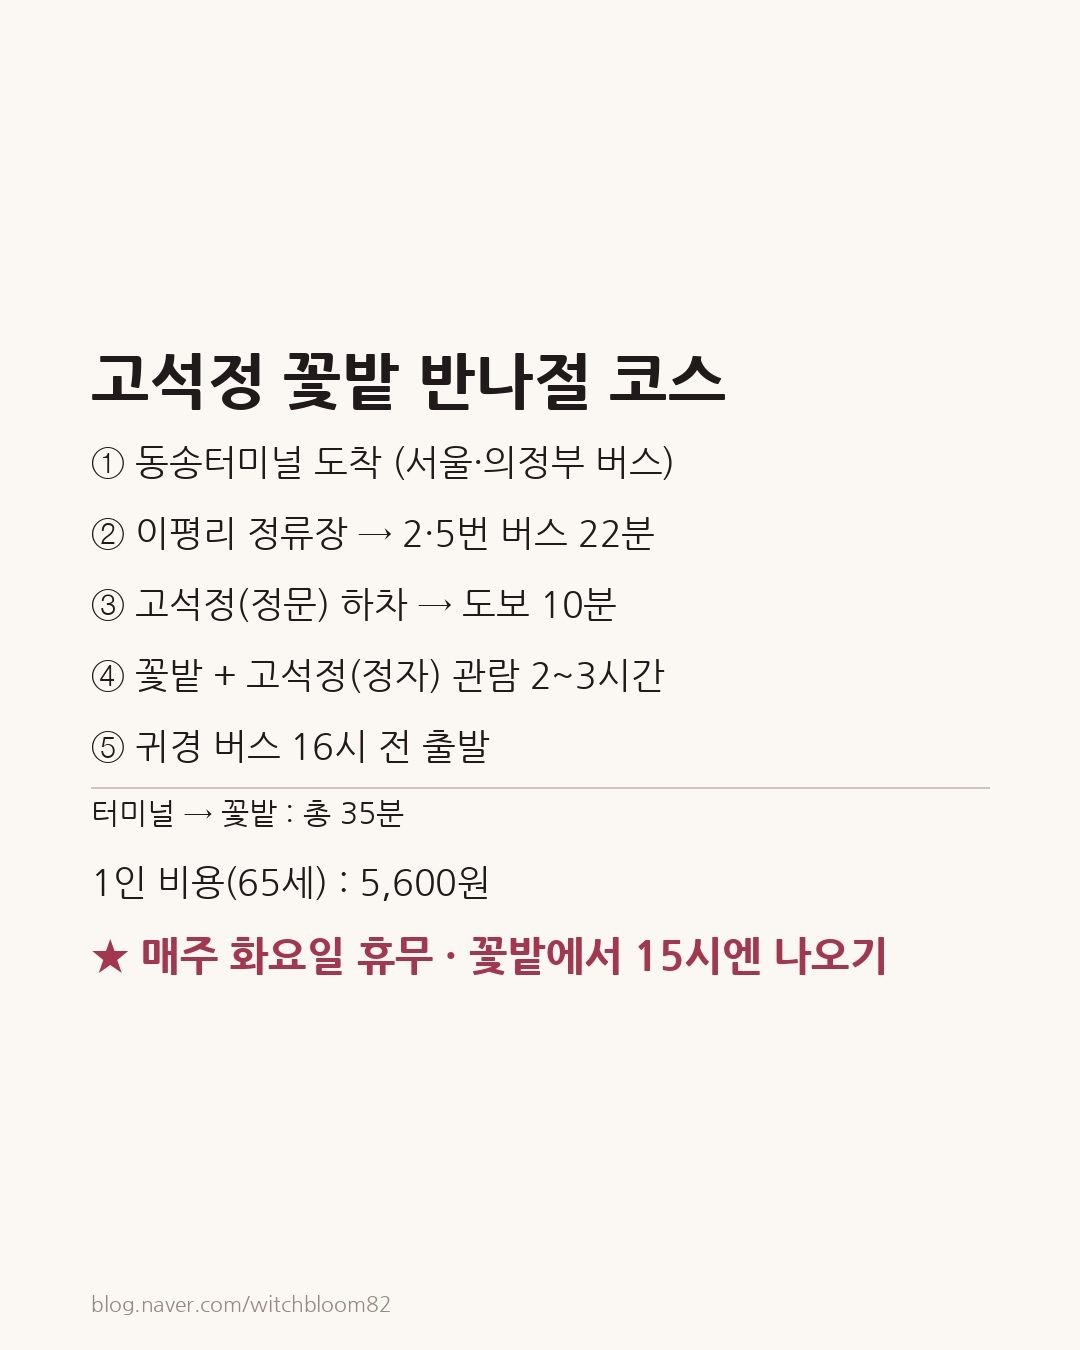
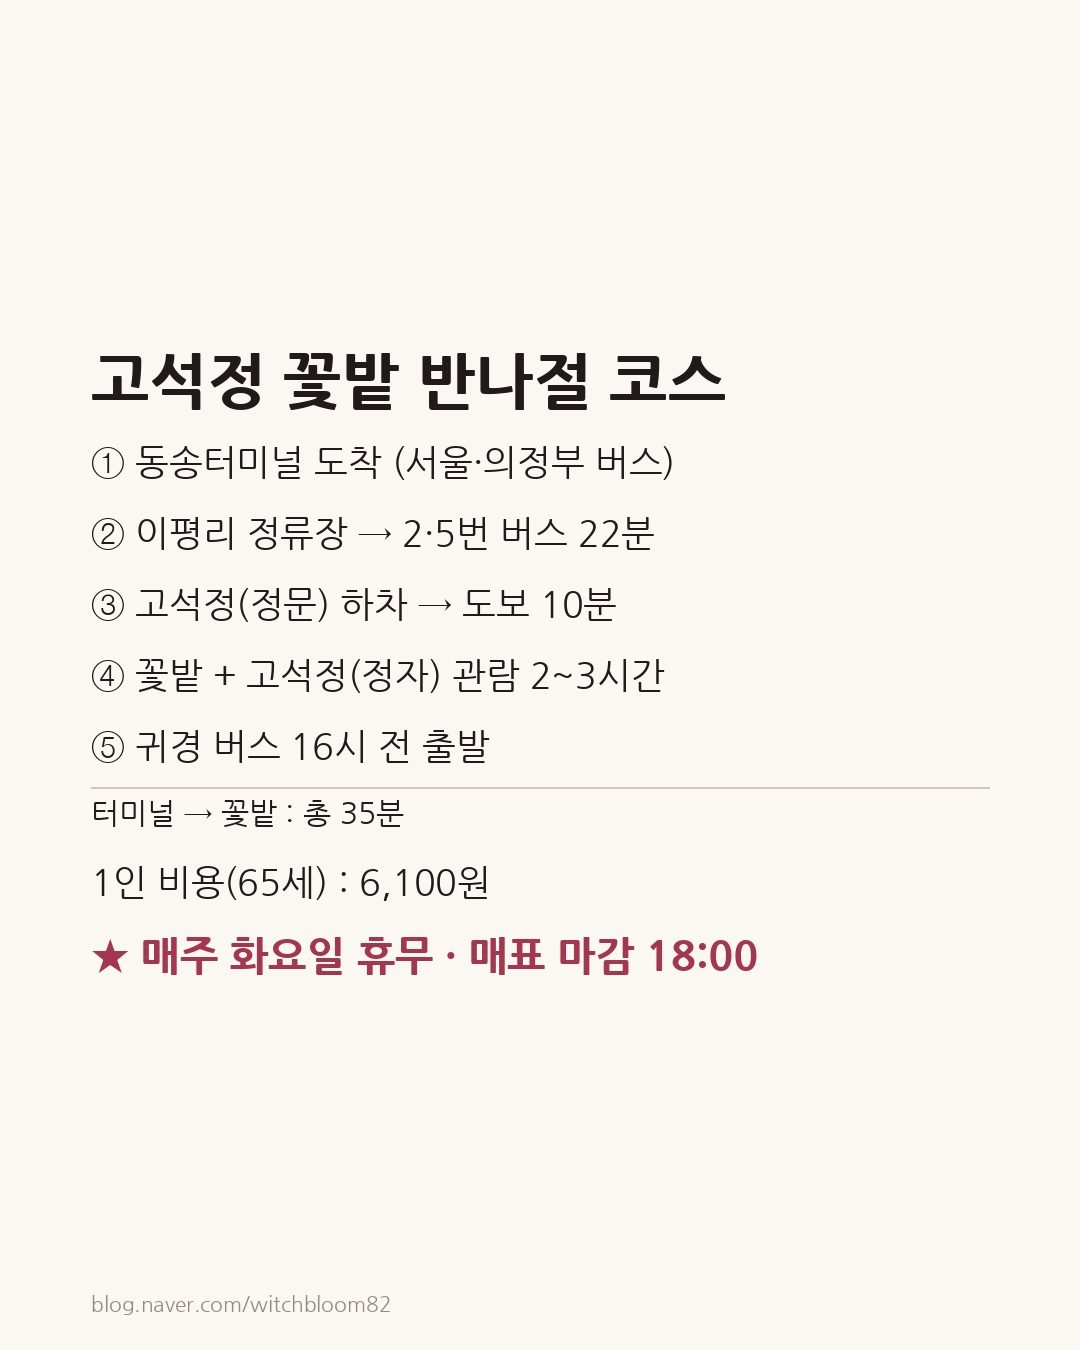
철원 요금·운영시간 공식 페이지로 정정 — 감면 환급률이 절반이 아니었다
운영자가 철원군 공식 페이지(cwg.go.kr key=1823)를 열어 확인해준 값이다.

  운영시간   09:00~18:00           → 09:00~19:00 · 매표 마감 18:00
  야간개장   금·토 21:00까지        → 근거 없음, 삭제
  요금 구분  성인/청소년/어린이      → 대인(19세~)/소인(7~18세)/감면
  청소년6,000·어린이4,000          → 소인 4,000 하나뿐
  65세 환급  2,500원(50%)          → 2,000원 → 실부담 3,000원
  총비용     5,600원               → 6,100원

가장 큰 건 감면 환급률이다. "입장료의 50%를 돌려받는다"고 썼는데
그건 대인만이고, 65세 감면은 5,000원 중 2,000원이다. 이 글 독자
대부분이 감면 대상이라 정작 틀린 쪽을 크게 써 놓은 셈이었다.

★공식 페이지 안에서 시간이 두 가지로 나온다는 것도 확인했다.
상세정보 09:00~19:00(매표 18:00) vs 리플릿 09:00~20:00(매표 19:00).
둘 다 적고 "18시 전에 사면 안전"으로 안내했다. 지자체도 정리 못 한
값을 짚어주는 게 이 블로그의 자리다.

공식 연락처(033-452-1941 / 450-5771, 깡통열차 010-6214-7523),
식재 수종의 호박터널·안젤로니아, 폐장일이 낙화 시점에 따라 앞당겨질
수 있다는 것도 반영했다.

Claude-Session: https://claude.ai/code/session_018cXnRr9rN6XXTQHvd3n7uT

Changed region(s): [[0.4278, 0.6844, 0.825, 0.7467]]

diff --git a/.claude/posts/2026-09-07-철원가볼만한곳/area1.md b/.claude/posts/2026-09-07-철원가볼만한곳/area1.md
@@ -2,7 +2,7 @@
 
 1. 철원 가볼만한곳, 고석정 꽃밭 65세 5,000원 반나절 (31자) — 노리는 검색어: 철원 가볼만한곳 / 65세 할인
 2. 철원 가볼만한곳, 고석정 꽃밭 화요일엔 못 들어가요 (28자) — 노리는 검색어: 철원 가볼만한곳 / 화요일 휴무
-3. 철원 가볼만한곳, 동송터미널서 35분 고석정 꽃밭 (26자) — 노리는 검색어: 철원 가볼만한곳 / 동송터미널 가는법
+3. 철원 가볼만한곳, 고석정 꽃밭 매표 18시 마감 (25자) — 노리는 검색어: 철원 가볼만한곳 / 동송터미널 가는법
 
 ---
 
@@ -32,9 +32,9 @@
 📌 3초 요약
 ✅ 가능여부 : 버스로 완전히 가능해요 (기차는 아직 이용 불가)
 ✅ 핵심교통 : 동송터미널 → 이평리 정류장 도보 1분 → 2·5·2-1번 버스 22~27분 → 고석정(정문) 하차 후 도보 10분 (총 35~41분)
-✅ 입장료 : 성인 10,000원 · 65세 이상 5,000원 (둘 다 절반은 철원사랑상품권으로 돌려받아요)
+✅ 입장료 : 대인 10,000원 · 65세 이상 5,000원 (상품권으로 각각 5,000원·2,000원 돌려받아요)
 ★ 조심할 점 : 매주 화요일 휴무 (꽃밭 + 맛집 2곳 모두)
-✅ 하루 총 비용(65세 기준) : 왕복 지역버스 3,100원 + 입장료 실부담 2,500원 ≈ 5,600원 (동송까지 오가는 장거리 버스비는 별도예요)
+✅ 하루 총 비용(65세 기준) : 왕복 지역버스 3,100원 + 입장료 실부담 3,000원 ≈ 6,100원 (동송까지 오가는 장거리 버스비는 별도예요)
 ✅ 실시간/플랜B : 네이버지도로 버스 실시간 위치 보기, 놓치면 택시(12분·약 13,200원)로 탈출
 [/박스]
 
@@ -60,17 +60,20 @@
 
 고석정 꽃밭은 2026년 8월 28일부터 10월 31일까지 문을 열어요. 다만 [굵게]매주 화요일은 통째로 휴무[/굵게]예요.
 
-✅ 운영기간 : 2026년 8월 28일 ~ 10월 31일 (가을 시즌)
+✅ 운영기간 : 2026년 8월 28일 ~ 10월 31일 (하반기 시즌)
 ✅ 휴무일 : 매주 화요일
-✅ 운영시간 : 09:00 ~ 18:00
-✅ 야간개장 : 금·토요일과 추석 연휴는 21:00까지, 이땐 매표를 20:00에 마감해요
+✅ 운영시간 : 09:00 ~ 19:00
+✅ [굵게]매표 마감 : 18:00[/굵게]
 
-평일 매표가 정확히 몇 시에 끝나는지는 아직 공식 자료가 없어요. 그래서 이 글은 늦어도 16시 전에는 들어가는 것을 기준으로 삼았어요.
+★[색변경]여기서 꼭 짚을 게 있어요. 철원군 공식 페이지 안에서도 시간이 두 가지로 나와요.[/색변경]
+　상세정보에는 [굵게]09:00~19:00 · 매표 마감 18:00[/굵게], 공식 안내문(리플릿)에는 09:00~20:00 · 매표 마감 19:00으로 적혀 있어요.
+　어느 쪽이든 [굵게]18시 전에 표를 사면 안전[/굵게]하니, 그 기준으로 움직이면 돼요.
 
-★다만 [색변경]돌아오는 버스까지 생각하면 훨씬 더 일찍 움직여야 해요.[/색변경] 동송에서 귀경 버스를 16시에 타려면, 꽃밭에는 [굵게]정오 무렵[/굵게]에 들어가 있어야 편해요.
-　정리하면 이렇게 돼요 — [굵게]입장 자체는 16시까지, 하지만 당일치기라면 정오 입장.[/굵게]
+★공식 안내에 "일몰 시간에 따라 변동될 수 있음"이라고 붙어 있어요. 10월로 갈수록 해가 짧아지니 더 일찍 닫을 수 있어요.
+★폐장 날짜도 "초화류 낙화 시점에 따라 변동될 수 있음"이라 10월 31일보다 이를 수 있어요.
 
-여유 있게 다녀오고 싶다면 금·토요일 야간개장(21:00까지)을 노리는 것도 방법이에요.
+★돌아오는 버스까지 생각하면 훨씬 더 일찍 움직여야 해요. 동송에서 귀경 버스를 16시에 타려면, 꽃밭에는 [굵게]정오 무렵[/굵게]에 들어가 있어야 편해요.
+　정리하면 이렇게 돼요 — 매표는 18시까지지만, 당일치기라면 정오 입장.
 
 절정 시기는 9월 말부터 10월 초예요. 핑크뮬리와 코키아(댑싸리), 억새가 이때 가장 예뻐요. 다만 10월 31일이면 개장 자체가 끝나니, 이 시즌표는 다음 해엔 바뀔 수 있다는 것도 함께 기억해두면 좋아요.
 
@@ -137,20 +140,25 @@ STEP4. 정문에서 꽃밭 입구까지 [굵게]도보 10분[/굵게]
 
 [소제목]💰 고석정 꽃밭 입장료, 65세면 정말 5,000원인가요?[/소제목]
 
-고석정 꽃밭 입장료는 [굵게]65세 이상이면 5,000원[/굵게]이에요. 게다가 그중 절반은 돌려받아요.
+고석정 꽃밭 입장료는 [굵게]65세 이상이면 5,000원[/굵게]이에요. 게다가 일부는 상품권으로 돌려받아요.
 
-✅ 성인 : 10,000원
-✅ 청소년 : 6,000원
-✅ 어린이 : 4,000원
-✅ 65세 이상·국가유공자·장애인 : 5,000원
-✅ 철원군민 : 신분증 지참 시 무료 (이 경우 상품권 환급은 없어요)
+✅ 대인(19세 이상) : 10,000원
+✅ 소인(7~18세) : 4,000원
+✅ [굵게]감면 대상 대인 : 5,000원[/굵게] (65세 이상·국가유공자·장애인·기초생활수급자 등)
+✅ 감면 대상 소인 : 2,000원
+✅ 철원군민 : 신분증 지참 시 무료 (이 경우 상품권 교환은 없어요)
 
-★가장 중요한 건 이거예요. 입장료의 50%를 철원사랑상품권으로 돌려받을 수 있어요. 인근 식당이나 편의점에서 현금처럼 쓸 수 있는 상품권이에요.
+★입장료 일부를 [굵게]철원사랑상품권[/굵게]으로 돌려받아요. 먹거리부스나 인근 식당에서 현금처럼 쓸 수 있어요.
 
-✅ 65세 이상 : 5,000원 내고 → 상품권 2,500원 돌려받음 → [굵게]실부담 2,500원[/굵게]
-✅ 성인 : 10,000원 내고 → 상품권 5,000원 돌려받음 → 실부담 5,000원
+✅ 대인 : 10,000원 내고 → 상품권 5,000원 → 실부담 5,000원
+✅ [굵게]65세 이상 : 5,000원 내고 → 상품권 2,000원 → 실부담 3,000원[/굵게]
+✅ 소인 : 4,000원 내고 → 상품권 2,000원 → 실부담 2,000원
 
-점심값으로 그대로 쓸 수 있는 돈이니, 실제로 느껴지는 입장료는 표시가보다 훨씬 낮은 셈이에요.
+★[색변경]환급 비율이 대상마다 달라요.[/색변경] 대인은 절반이 돌아오지만, 65세 감면은 5,000원 중 2,000원이에요. "반값이 돌아온다"고 알고 가면 계산이 어긋나요.
+
+★감면을 받으려면 신분증을 꼭 챙기세요. 65세 이상 외에도 기초생활수급자·국가유공자·참전유공자와 배우자·독립유공자·5·18유공자·의사상자·한부모가족 자녀·장애인 등이 감면 대상이에요.
+
+★단체(내국인 25명 이상)는 요금이 또 달라요. 대인 8,000원·상품권 4,000원이에요.
 
 꽃밭 안에는 깡통열차(트랙터 열차)도 있어요. 여기엔 주의가 필요해요.
 
@@ -165,7 +173,7 @@ STEP4. 정문에서 꽃밭 입구까지 [굵게]도보 10분[/굵게]
 
 [소제목]🍂 고석정 꽃밭에서 뭘 보고, 어디서 쉬면 되나요?[/소제목]
 
-고석정 꽃밭은 촛불맨드라미·가우라·천일홍·버베나·백일홍·코스모스·코키아(댑싸리)·핑크뮬리·억새까지, 계절 꽃이 넓게 펼쳐진 곳이에요.
+고석정 꽃밭에는 촛불맨드라미·가우라·천일홍·버베나·백일홍·코스모스·코키아(댑싸리)·핑크뮬리·억새·안젤로니아가 심겨 있어요. [굵게]호박터널[/굵게]도 있어 그늘 삼아 걷기 좋아요.
 
 1. 촛불맨드라미·가우라 구간 — 8월 말부터 피기 시작해요
 2. 천일홍·버베나·백일홍 구간 — 9월 내내 볼 만해요
@@ -236,10 +244,11 @@ STEP4. 정문에서 꽃밭 입구까지 [굵게]도보 10분[/굵게]
 
 [박스]
 📞 전화 · 당일 확인
+☎ 고석정 꽃밭 033-452-1941 / 033-450-5771
+☎ 깡통열차 010-6214-7523
 ☎ 동송터미널 033-456-1213
-☎ 동송택시부 033-455-2286 (출처가 하나뿐이라 연결이 안 되면 114나 카카오T로 택시를 부르면 돼요)
 ☎ 한탄강 주상절리길 순담매표소 0507-1431-2225
-✅ 평일 매표 마감 시각과 고석정→동송 막차 시각은 공식 자료가 없어요. 그래서 이 글은 16시 전 출발을 기준으로 짰어요. 당일 배차나 통제 상황은 네이버지도 실시간으로 확인하면 돼요.
+✅ 고석정→동송 막차 시각은 공식 자료가 없어요. 그래서 이 글은 16시 전 출발을 기준으로 짰어요. 당일 배차는 네이버지도 실시간으로 보면 돼요.
 [/박스]
 
 [박스]
@@ -247,11 +256,11 @@ STEP4. 정문에서 꽃밭 입구까지 [굵게]도보 10분[/굵게]
 ✅ 오늘이 화요일이 아닌지 (꽃밭 + 맛집 2곳 모두 휴무)
 ✅ 버스에서 내린 뒤 도보 10분이 더 있다는 것 (총 35분)
 ✅ 오후 4시 전에 나올 수 있는 일정인지
-✅ 65세 이상이면 신분증을 챙겼는지 (요금 할인·상품권 환급용)
+✅ 65세 이상이면 신분증을 챙겼는지 (없으면 감면이 안 돼요)
 ✅ 편한 신발 (평지 위주지만 산책로가 넓어요)
 [/박스]
 
-한 줄 정리 : 철원 고석정 꽃밭은 동송터미널에서 버스와 도보로 총 35분, 화요일만 피하면 65세 5,000원(실부담 2,500원)으로 반나절 알차게 다녀올 수 있는 곳이에요.
+한 줄 정리 : 철원 고석정 꽃밭은 동송터미널에서 버스와 도보로 총 35분, 화요일만 피하면 65세 5,000원(실부담 3,000원)으로 반나절 알차게 다녀올 수 있는 곳이에요.
 
 [이미지 삽입: 이미지9. CTA 카드]
 

diff --git a/.claude/posts/2026-09-07-철원가볼만한곳/area2.md b/.claude/posts/2026-09-07-철원가볼만한곳/area2.md
@@ -122,7 +122,7 @@ Small neutral watermark "blog.naver.com/witchbloom82" bottom right.
 
 하단 3칸
 · 현지 이동 : 왕복 약 1시간 10분
-· 1인 비용(65세) : 5,600원
+· 1인 비용(65세) : 6,100원
 　(왕복 지역버스 3,100원 + 입장료 실부담 2,500원, 동송까지 오가는 장거리 버스비 별도)
 · ★마감·주의 : 매주 화요일 휴무 · 귀경 16시 전 출발
 ```
@@ -143,7 +143,7 @@ Do NOT repaint, restyle or regenerate the two uploaded photos — crop to a circ
 
 Below the waypoints, a footer of three cells separated by thin hairlines only, no boxes and no fill:
 "현지 이동 · 왕복 약 1시간 10분"
-"1인 비용(65세) · 5,600원"
+"1인 비용(65세) · 6,100원"
 "★마감·주의 · 매주 화요일 휴무 · 16시 전 출발"
 Render the third cell in the dusty-rose accent color and slightly bolder than the others.
 
@@ -315,11 +315,11 @@ https://tong.visitkorea.or.kr/cms/resource_photo/42/4062442_image2_1.jpg
 
 **카드 텍스트**
 ```
-입장료의 50%를 상품권으로 돌려받아요
-✅ 성인 10,000원 · 청소년 6,000원 · 어린이 4,000원
-✅ 65세 이상 5,000원
-✅ 65세 실부담 2,500원 (상품권 2,500원 환급)
-★운영 09:00~18:00 · 금·토·추석 21:00까지(매표 20:00 마감)
+입장료 일부를 상품권으로 돌려받아요
+● 대인 10,000원 · 소인 4,000원
+● 65세 이상 5,000원 (감면)
+● 65세 실부담 3,000원 (상품권 2,000원)
+★운영 09:00~19:00 · 매표 마감 18:00 · 화요일 휴무
 깡통열차 5,000원 · 입장료와 별도 · 65세 할인 없음 · 17:00 종료
 ```
 
@@ -329,15 +329,15 @@ Edit the uploaded photograph. Keep the image EXACTLY as-is — do NOT repaint, r
 
 Place the text on whichever area of the photo is naturally brightest and least busy; if no such area exists, place it across the lower half. Soft drop shadow. Text color chosen for maximum contrast against whatever is behind it.
 
-Headline: "입장료의 50%를 상품권으로 돌려받아요" — render "50%" noticeably larger than the rest, in the dusty-rose accent color.
+Headline: "입장료 일부를 상품권으로 돌려받아요" — render "50%" noticeably larger than the rest, in the dusty-rose accent color.
 
 Then, as label-value lines:
-"✅ 성인 10,000원 · 청소년 6,000원 · 어린이 4,000원"
-"✅ 65세 이상 5,000원"
-"✅ 65세 실부담 2,500원 (상품권 2,500원 환급)" — render "2,500원" in the accent color
+"● 대인 10,000원 · 소인 4,000원"
+"● 65세 이상 5,000원 (감면)"
+"● 65세 실부담 3,000원 (상품권 2,000원)" — render "2,500원" in the accent color
 
 One operating-hours line in the accent color, at least as large as the price lines:
-"★운영 09:00~18:00 · 금·토·추석 21:00까지(매표 20:00 마감)"
+"★운영 09:00~19:00 · 매표 마감 18:00 · 화요일 휴무"
 
 At the very bottom, separated by a thin hairline only (not a box), a smaller line for a separately priced attraction:
 "깡통열차 5,000원 · 입장료와 별도 · 65세 할인 없음 · 17:00 종료"
